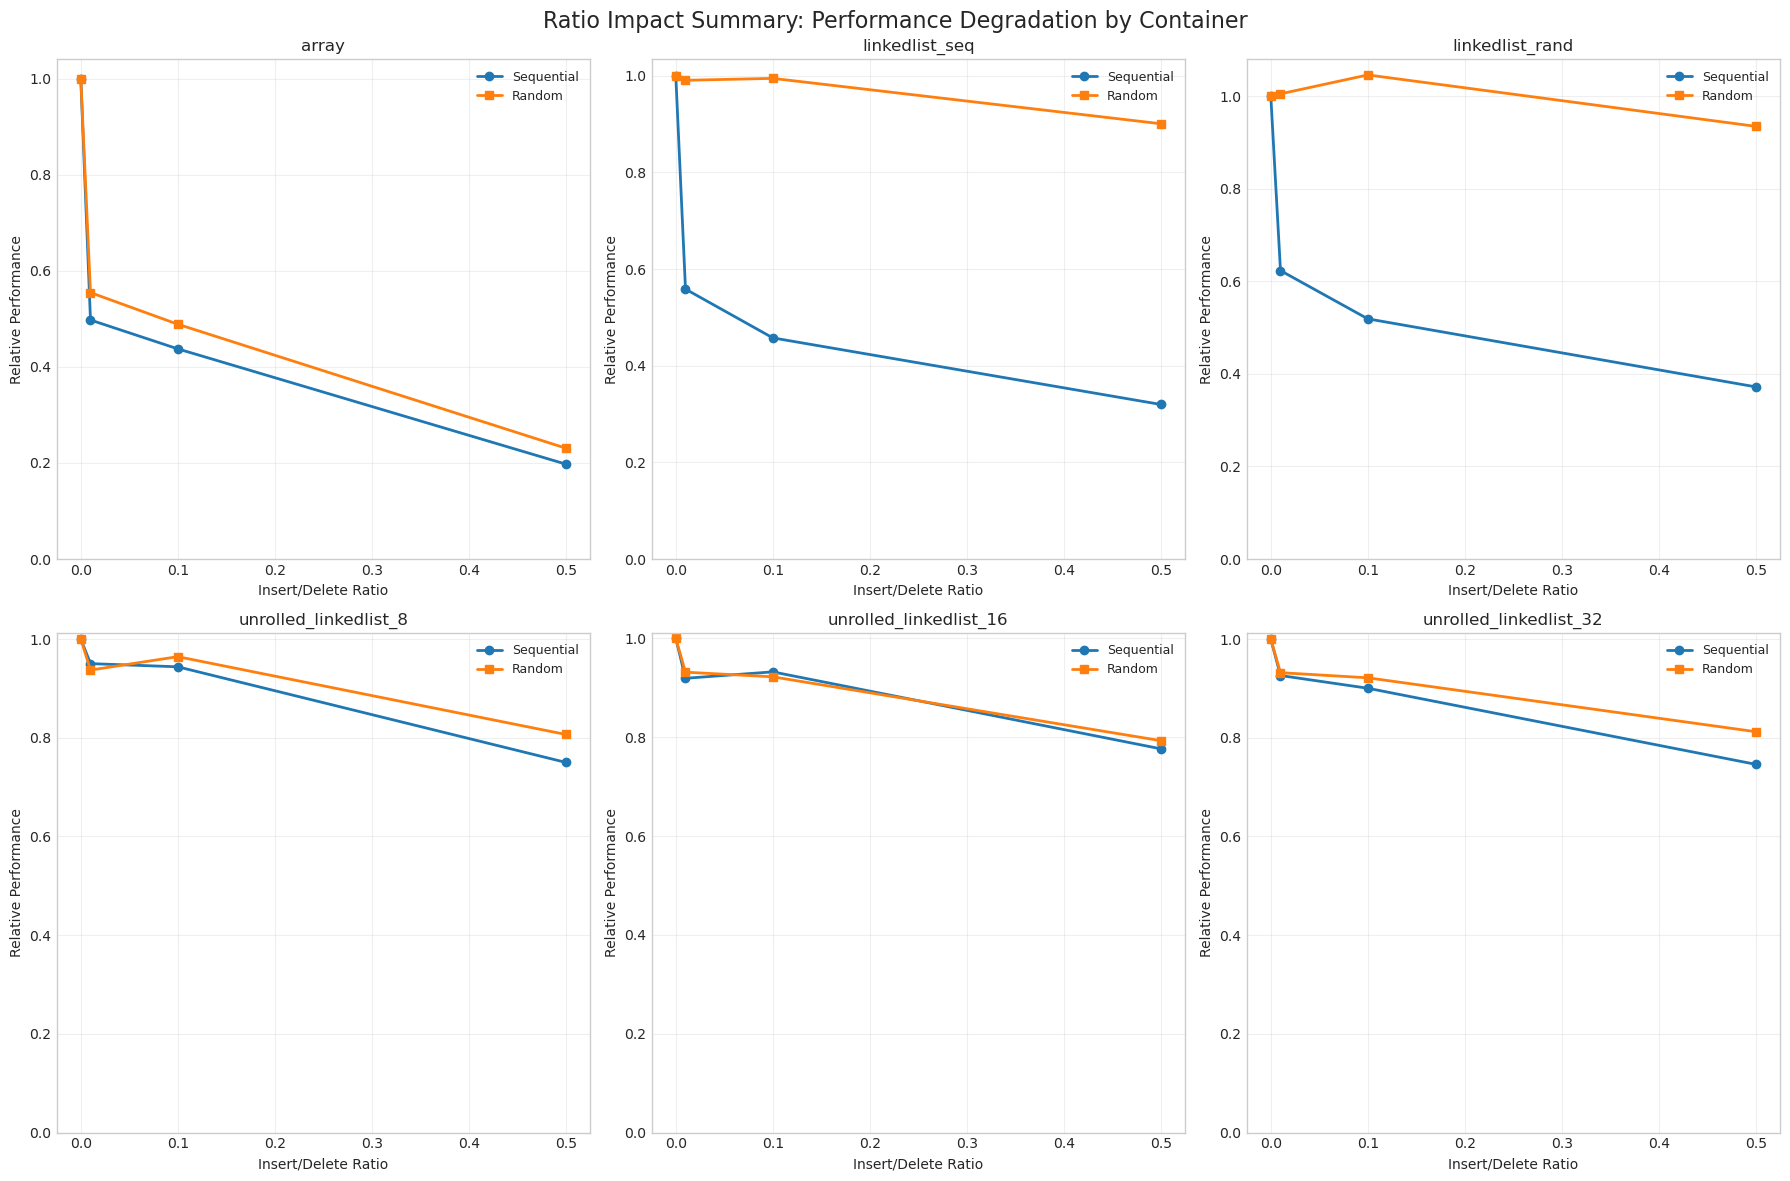
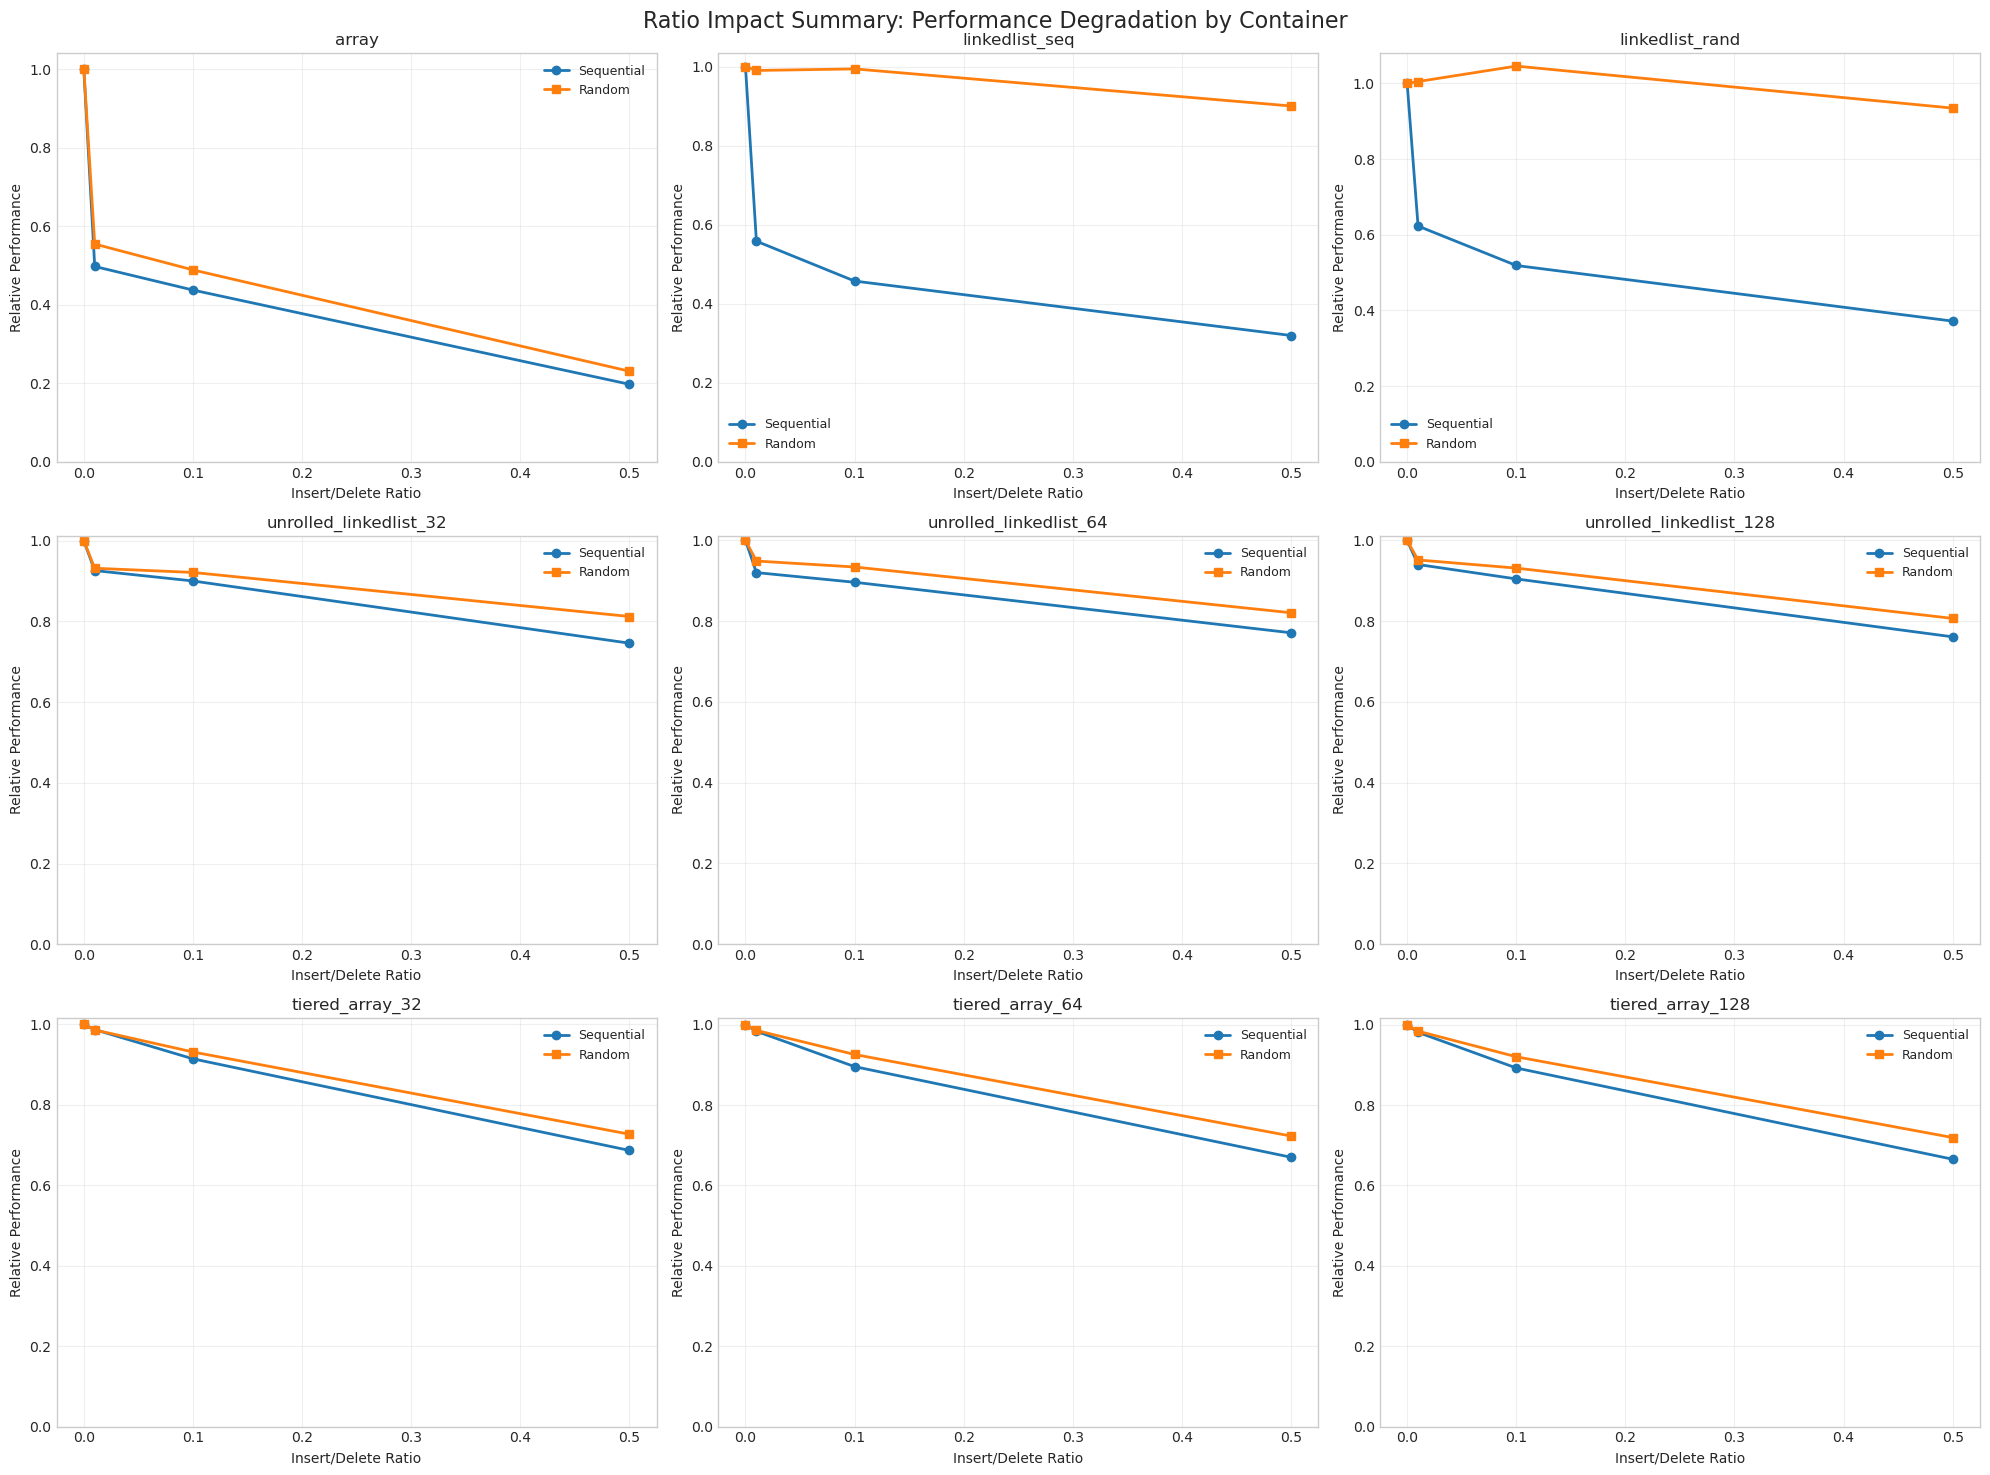
Refactor ratio impact summary plot to dynamically adjust layout based on key containers

diff --git a/10/scripts/simple_plot.py b/10/scripts/simple_plot.py
@@ -418,15 +418,30 @@ def plot_performance_heatmap_by_ratio(df):
     plt.close()
 
 def plot_ratio_impact_summary(df):
-    containers = sort_containers(df['container'].unique())
+    all_containers = sort_containers(df['container'].unique())
     ratios = sorted(df['ratio'].unique())
     
-    fig, axes = plt.subplots(2, 3, figsize=(18, 12))
+    key_containers = []
+    for container in all_containers:
+        if container in ['array', 'linkedlist_seq', 'linkedlist_rand']:
+            key_containers.append(container)
+        elif container.startswith('unrolled_linkedlist') and container.endswith(('32', '64', '128')):
+            key_containers.append(container)
+        elif container.startswith('tiered_array') and container.endswith(('32', '64', '128')):
+            key_containers.append(container)
     
-    for idx, container in enumerate(containers[:6]): 
-        row = idx // 3
-        col = idx % 3
-        ax = axes[row, col]
+    n_containers = len(key_containers)
+    ncols = 3
+    nrows = (n_containers + ncols - 1) // ncols
+    
+    fig, axes = plt.subplots(nrows, ncols, figsize=(20, 5*nrows))
+    
+    if nrows == 1:
+        axes = axes.reshape(1, -1)
+    axes_flat = axes.flatten() if n_containers > 1 else [axes]
+    
+    for idx, container in enumerate(key_containers):
+        ax = axes_flat[idx]
         
         container_df = df[df['container'] == container]
         
@@ -450,10 +465,8 @@ def plot_ratio_impact_summary(df):
         ax.grid(True, alpha=0.3)
         ax.set_ylim(bottom=0)
     
-    for idx in range(len(containers), 6):
-        row = idx // 3
-        col = idx % 3
-        axes[row, col].set_visible(False)
+    for idx in range(n_containers, len(axes_flat)):
+        axes_flat[idx].set_visible(False)
     
     fig.suptitle('Ratio Impact Summary: Performance Degradation by Container', fontsize=16)
     plt.tight_layout()
